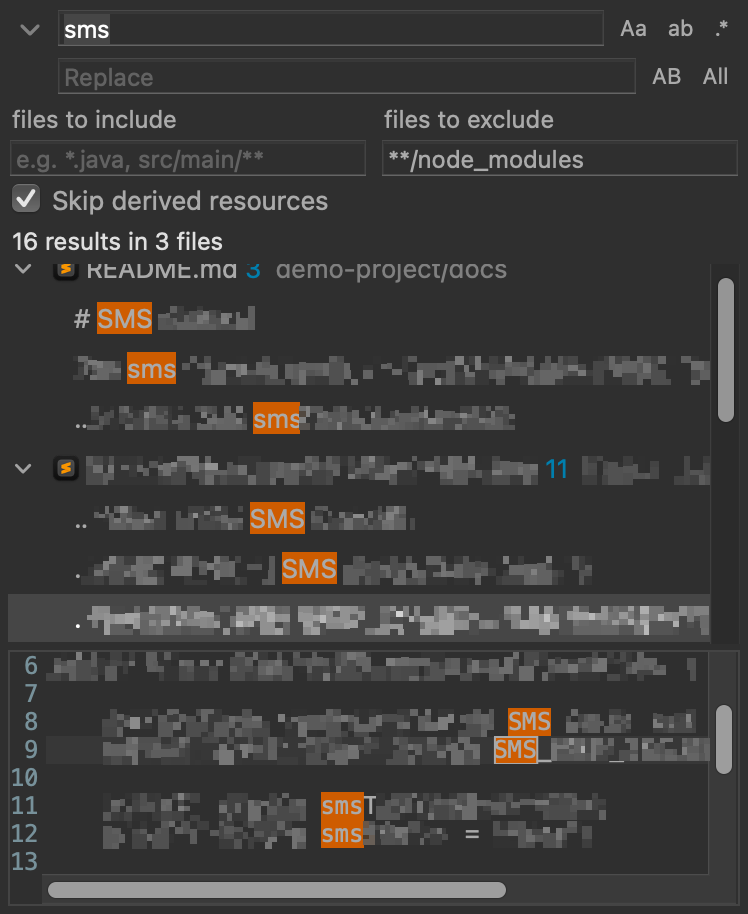
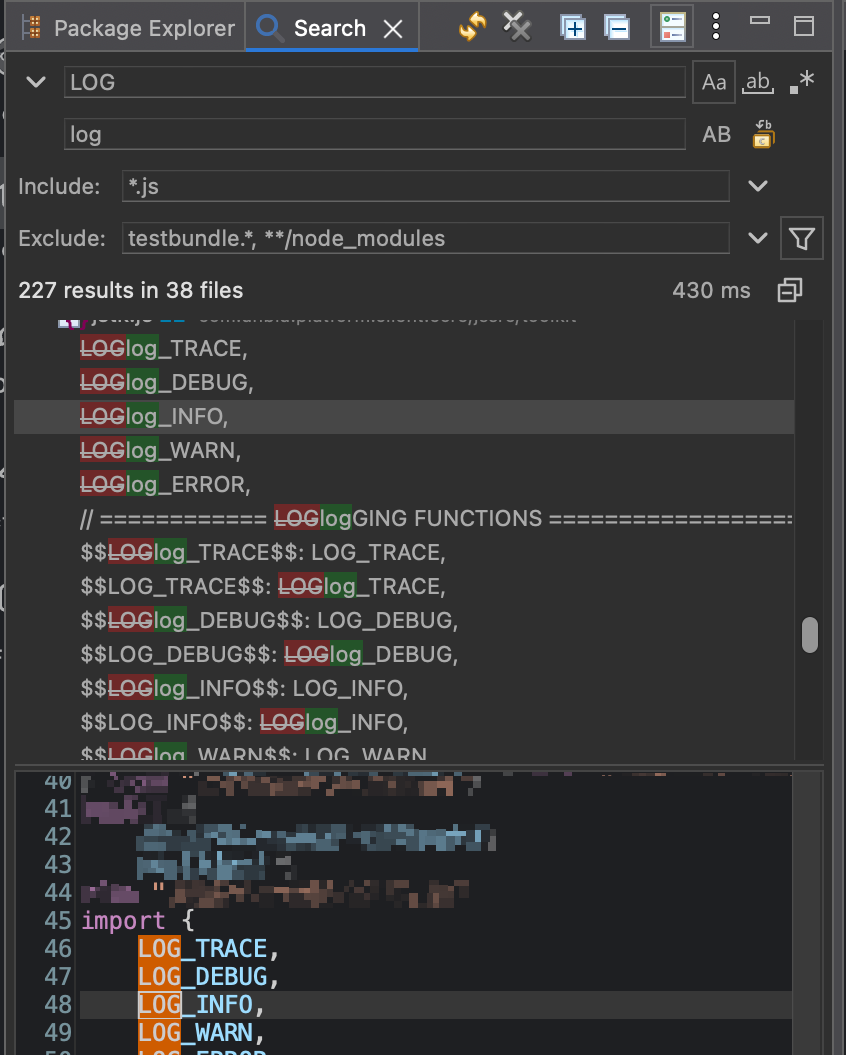
screenshots updates

diff --git a/README.md b/README.md
@@ -3,7 +3,7 @@
 A VS Code style search & replace for Eclipse, as a regular docked view (on the right by default, drag it wherever you
 like): search as you type across the workspace, results grouped by file, replace with a live preview.
 
-<img src="docs/sidebar-search.png" width="300" alt="Search results"> <img src="docs/sidebar-replace.png" width="300" alt="Replace preview">
+<img src="docs/sidebar-search.png" width="360" alt="Search results">
 
 ## Install
 
